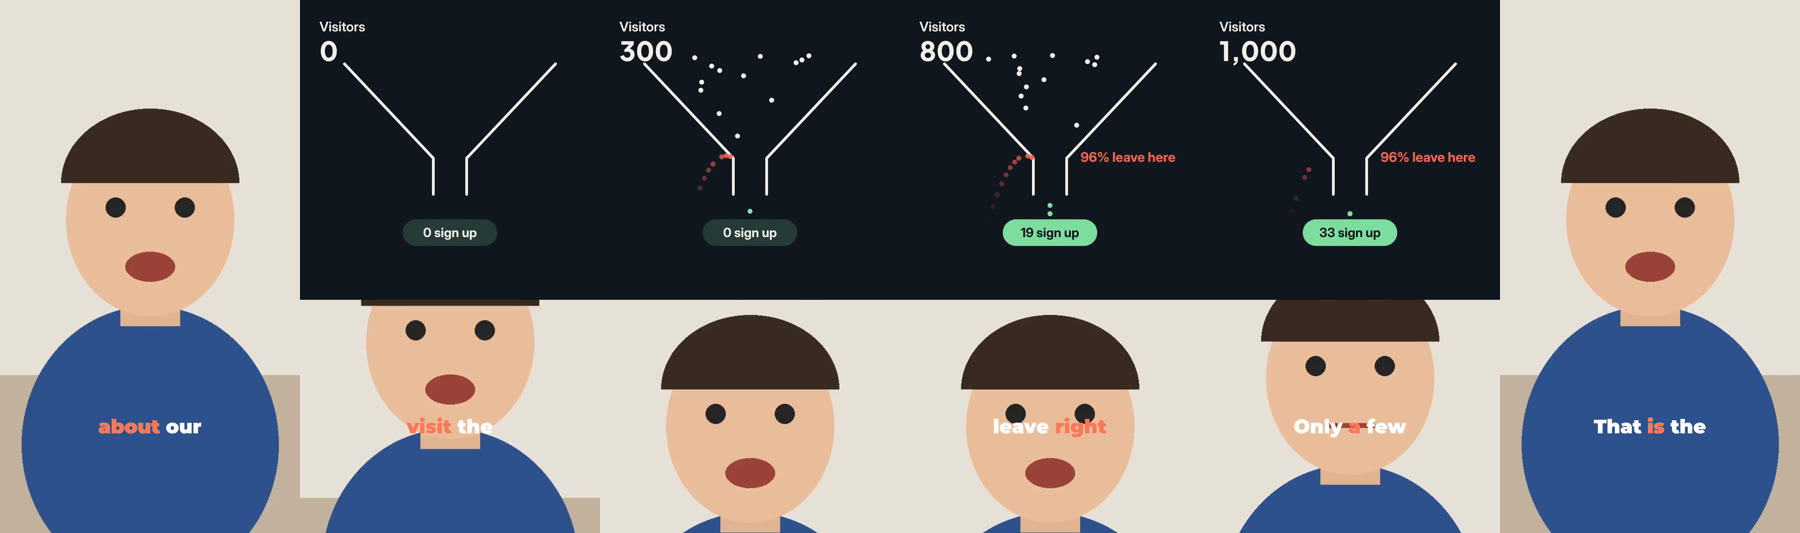
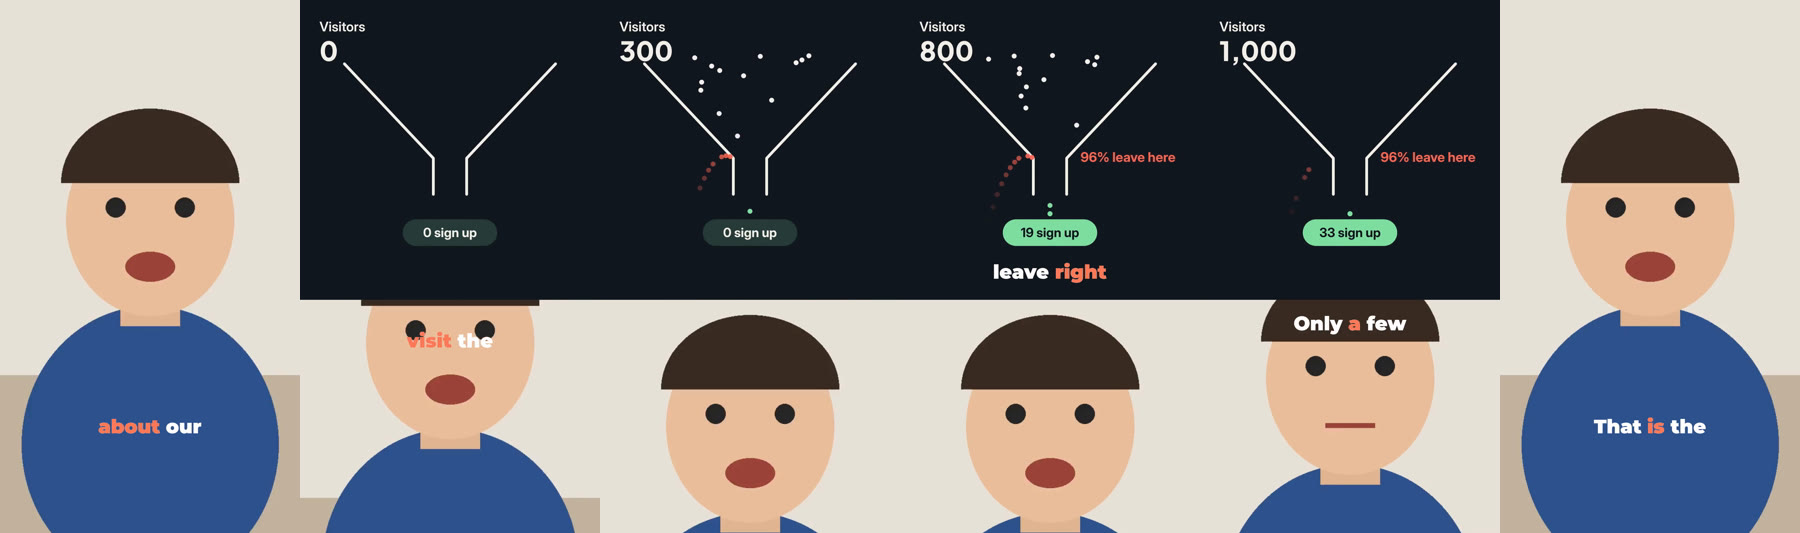
Captions move to the seam while the frame is split
Left where they were, the clip's own captions landed on the speaker's face in
the lower band of a split (seen in a real export of an explainer over a
talking video). rebuildLayout now gives the master captions an offsetY track
that moves them, on the layout's own 0.3 s moves, to just above the seam
between the visual and the speaker (the strip an animation keeps clear), and
back after. Learned from AI Producer's framing rule for portrait seats.

The captions stay the editor's own layer and style; a hand-made offsetY track
is left alone; ids are stable so a layout op run again changes nothing. The
explainer guide says the animation never draws the speaker's words.

Claude-Session: https://claude.ai/code/session_01M9nuK4R8Hbg1SRP6bKjULu

diff --git a/packages/editor-core/src/layout.ts b/packages/editor-core/src/layout.ts
@@ -33,7 +33,10 @@
 
 import { FRAME_RATE, LAYOUT_ANCHORS, LAYOUT_MODES, type ClipDocument, type ClipNode, type LayoutRange as StoredRange } from '@opencmo/clip-doc';
 
-import { clone, isMaster, nodes, sceneOf, type Entity } from './doc';
+import { placeCaption } from '@opencmo/clip-render';
+
+import { masterCaptions } from './captions';
+import { clone, drawId, isMaster, nodes, sceneOf, type Entity } from './doc';
 import { summarizeProject } from './summary';
 import { round } from './transcript';
 
@@ -370,6 +373,10 @@ function locateIn(root: Entity, target: Entity): Located | null {
  * (master về đúng chỗ cũ) và bỏ panel. Không đổi input.
  */
 export function rebuildLayout(input: ClipDocument): ClipDocument {
+  return seatCaptions(rebuildPanels(input));
+}
+
+function rebuildPanels(input: ClipDocument): ClipDocument {
   const document = clone(input);
   const scene = sceneOf(document) as unknown as Entity | undefined;
   if (!scene || !scene.width || !scene.height) return document;
@@ -584,3 +591,56 @@ export function speakerBandAt(document: ClipDocument, time: number): { y: number
   if (!range || range.mode === 'visual-only' || range.mode === 'pip' || range.mode === 'side-by-side' || range.mode === 'cell') return null;
   return range.mode === 'split-bottom' ? { y: 1 - range.ratio, height: range.ratio } : { y: 0, height: range.ratio };
 }
+
+// ------------------------------------------------------------------ captions at the seam
+
+/** The track `seatCaptions` writes on the master captions: its id starts with this. */
+const CAPTION_TRACK = 'layout-caption-offsetY';
+/** Caption centre above the seam, share of the frame height: inside the band the visual keeps clear. */
+const SEAM_LIFT = 0.05;
+
+/**
+ * The clip's own captions move to the seam between the visual and the speaker while the frame is split, and back
+ * after. Left where they were, they land on the speaker's face in the lower band (learned from AI Producer's framing
+ * rules: under a portrait seat the captions sit between the visual and the speaker, about y 920-1110 of 1920). With
+ * the visual on top the centre sits just above the seam, in the bottom part the visual leaves empty; with the visual
+ * at the bottom it sits at the foot of the speaker's band. The captions stay the editor's own layer and style; only
+ * an `offsetY` track is added, on the same 0.3 s moves as the layout.
+ */
+function seatCaptions(document: ClipDocument): ClipDocument {
+  const scene = sceneOf(document) as unknown as Entity | undefined;
+  const captions = masterCaptions(document) as unknown as Entity | null;
+  if (!scene || !captions || !scene.width || !scene.height) return document;
+  const tracks = ((captions.tracks as Entity[] | undefined) ?? []).filter((track) => !String(track.id ?? '').startsWith(CAPTION_TRACK));
+  // Unique across timelines: each has its own captions layer, named now if it has no id yet (the next stamp keeps it).
+  if (typeof captions.id !== 'string') captions.id = drawId();
+  const trackId = `${CAPTION_TRACK}-${captions.id}`;
+  // A hand-made offsetY track is the user's choice of position: leave it.
+  const own = tracks.some((track) => track.property === 'offsetY');
+  const W = scene.width as number;
+  const H = scene.height as number;
+  const ranges = own ? [] : readLayout(document).filter((range) => range.mode === 'split-top' || range.mode === 'split-bottom');
+  const duration = (scene.workarea as [number, number] | undefined)?.[1] ?? Infinity;
+  const base = Number(captions.offsetY ?? 0);
+  const box = placeCaption({ ...(captions as object), offsetY: 0 } as never, { width: W, height: H });
+  const centre = box.y + box.height / 2;
+  // Caption keyframes run on the captions' own clock: seconds of its source from `sourceIn`.
+  const local = (time: number) => round(time - Number(captions.start ?? 0) + Number(captions.sourceIn ?? 0));
+  const keys: { time: number; value: number }[] = [];
+  for (const range of ranges) {
+    const seam = range.mode === 'split-bottom' ? (1 - range.ratio) * H : range.ratio * H;
+    const value = round(seam - SEAM_LIFT * H - centre);
+    const T = Math.min(TRANSITION, (range.end - range.start) / 4);
+    if (range.start >= FRAME) keys.push({ time: local(range.start), value: base });
+    keys.push({ time: local(range.start >= FRAME ? range.start + T : 0), value });
+    if (range.end <= duration - FRAME) keys.push({ time: local(range.end - T), value }, { time: local(range.end), value: base });
+    else keys.push({ time: local(range.end), value });
+  }
+  const unique = keys.filter((key, index) => keys.findIndex((other) => other.time === key.time) === index).sort((a, b) => a.time - b.time);
+  // Stable ids: a layout op run again must leave the document unchanged.
+  if (unique.length) tracks.push({ id: trackId, property: 'offsetY', keyframes: unique.map((key, index) => ({ id: `${trackId}-${index}`, ...key })) });
+  if (tracks.length) captions.tracks = tracks;
+  else delete captions.tracks;
+  return document;
+}
+

diff --git a/apps/web/lib/agent/guides.ts b/apps/web/lib/agent/guides.ts
@@ -370,6 +370,7 @@ Up to 6 rounds; stop when a round finds nothing. A clean layout report is the fl
 When the user asks for an animation over part of their video ("explain this in the top half"):
 - silent: true. The speaker's own voice is the narration: a second voice on top would talk over them. Each beat's seconds follow the sentence it illustrates (clip seconds from <clip_context>), and the beats' say lines quote what the speaker says there.
 - start = the clip second where that sentence begins; the whole clip lasts as long as the explanation (3-30 s).
+- No captions inside the animation: never set the speaker's words as text in the scene. The clip's own captions layer shows them, and moves to the seam between the animation and the speaker for the split. Text in the animation is labels of the picture only (a number, a name, a short claim).
 - place "top" (the animation above, the speaker below; "bottom" for the other way round). The split is sized to the animation's shape: on a 9:16 clip use format 1:1 (the top 1080x1080, the speaker in the 1080x840 band under it) or 16:9 (a shorter band). place "full" covers the speaker for that time instead.
 - Compose for the band: one subject centred, nothing important in the outer 6%, and the bottom 17% kept clear as the preview asks (inside the band it is breathing room above the seam to the speaker).
 - After it renders, capture a frame in the middle: the animation in its band, the face whole in the other, captions not crossing the seam.

diff --git a/packages/editor-core/src/explainer.test.ts b/packages/editor-core/src/explainer.test.ts
@@ -408,6 +408,17 @@ describe('add_explainer placed in half the frame over the speaker', () => {
 		expect(names.at(-1)).toBe('captions');
 	});
 
+	it("the clip's own captions move to the seam for the split and back after", async () => {
+		const { document } = await applyOps(speaker, [silentOp('1:1', 'top')], ctx);
+		const captions = sceneNode(document).children!.find((child) => child.kind === 'captions') as Node & { tracks: { id: string; property: string; keyframes: { time: number; value: number }[] }[] };
+		const track = captions.tracks.find((item) => item.property === 'offsetY')!;
+		expect(track.id).toMatch(/^layout-caption-offsetY-/);
+		// classic sits centred (960); the seam is at 1079.04 (ratio 0.438) and the captions centre 5% above it.
+		expect(track.keyframes.map(({ time, value }) => [time, value])).toEqual([[6, 0], [6.3, 23.04], [13.7, 23.04], [14, 0]]);
+		const { document: full } = await applyOps(document, [{ op: 'set_layout', mode: 'full', start: 0, end: 30 }], ctx);
+		expect((sceneNode(full).children!.find((child) => child.kind === 'captions') as Node).tracks).toBeUndefined();
+	});
+
 	it('bottom: the animation below, the speaker on top; a 16:9 animation takes a shorter band', async () => {
 		const { document } = await applyOps(speaker, [silentOp('16:9', 'bottom')], ctx);
 		const scene = sceneNode(document) as Node & { marks: { layout: { ranges: { mode: string; ratio: number }[] } } };

diff --git a/packages/clip-render/src/index.ts b/packages/clip-render/src/index.ts
@@ -34,7 +34,7 @@ export { applyTable, bakeTable, colorFunction, colorTable, curveTable, gradeFram
 export { FPS, IDENTITY, multiply, type Mat, type Values } from './tree.ts';
 export { FONTS, type FontFamily } from './fonts.ts';
 export type { Transcript, TranscriptWord } from './captions.ts';
-export { captionPresetText, isEmphasized, sourceStart } from './captions.ts';
+export { captionPresetText, isEmphasized, placeCaption, sourceStart } from './captions.ts';
 export type { AudioClip } from './audio.ts';
 export { SEAM_FADE } from './audio.ts';
 

diff --git a/packages/editor-core/src/doc.ts b/packages/editor-core/src/doc.ts
@@ -212,7 +212,7 @@ const ID_CHARS = 6;
 const ID_SPACE = 36 ** ID_CHARS;
 
 /** Một id base36 sáu ký tự, rút đều (bỏ phần dư của 2^32 để không lệch). */
-function drawId(): string {
+export function drawId(): string {
   const ceiling = ID_SPACE * Math.floor(2 ** 32 / ID_SPACE);
   const cell = new Uint32Array(1);
   for (;;) {
